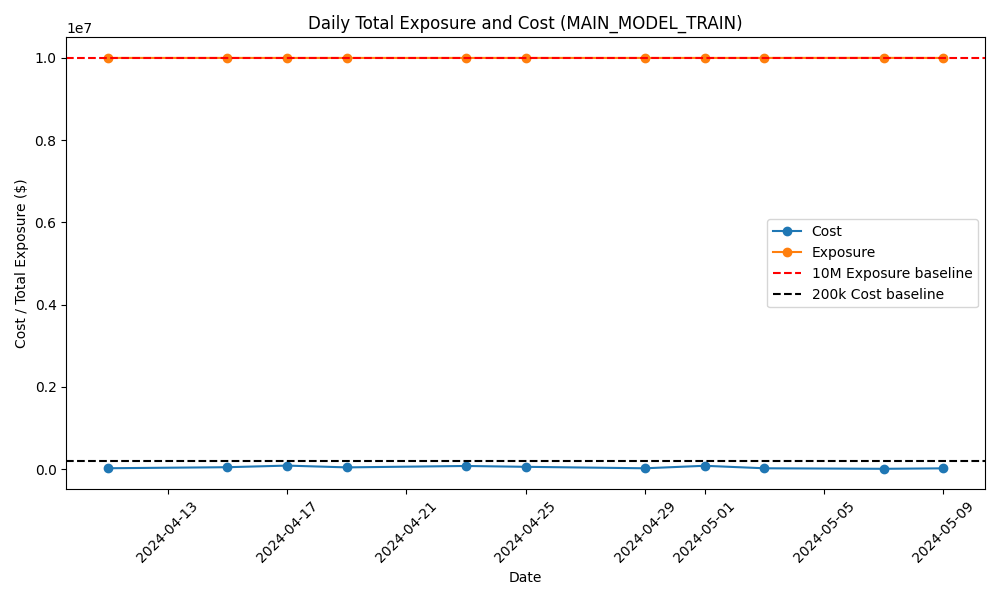
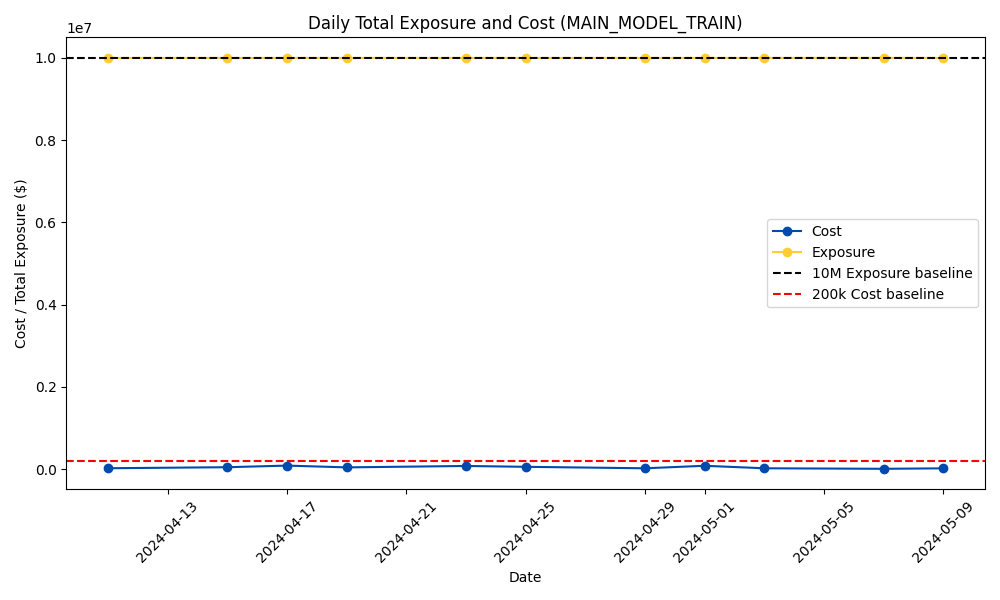
Updated plot coloring slightly

diff --git a/extract_results.py b/extract_results.py
@@ -2,9 +2,9 @@ import pandas as pd
 import numpy as np
 import matplotlib.pyplot as plt
 
-MODEL_NAME = "MAIN_MODEL_TRAIN"
+MODEL_NAME = "MAIN_MODEL_TEST"
 INCLUDE_SELL = False
-MARKET_DATA_PATH = "./data/BADSS training data.csv"
+MARKET_DATA_PATH = "./data/BADSS test data.csv"
 OPTIMIZED_TRADES_PATH = f"./results/{MODEL_NAME}_optimized_trades.csv"
 EXPOSURE_BASELINE = 1e7
 COST_BASELINE = 2e5
@@ -14,10 +14,22 @@ CUMULATIVE_COST_SAVE_PATH = f"./plots/cumulative_cost_over_time_{MODEL_NAME}.png
 
 def plot_daily_cost_and_total_exposure(daily_df):
     fig, ax = plt.subplots(figsize=(10, 6))
-    ax.plot(daily_df["Date"], daily_df["Premium_Cost"], marker='o', label="Cost")
-    ax.plot(daily_df["Date"], daily_df["Exposure"], marker='o', label="Exposure")
-    ax.axhline(y=1e7, color='r', linestyle='--', label="10M Exposure baseline")
-    ax.axhline(y=2e5, color='black', linestyle='--', label="200k Cost baseline")
+    ax.plot(
+        daily_df["Date"],
+        daily_df["Premium_Cost"],
+        marker="o",
+        label="Cost",
+        color="#004AAE",
+    )
+    ax.plot(
+        daily_df["Date"],
+        daily_df["Exposure"],
+        marker="o",
+        label="Exposure",
+        color="#ffcc33",
+    )
+    ax.axhline(y=1e7, color="black", linestyle="--", label="10M Exposure baseline")
+    ax.axhline(y=2e5, color="red", linestyle="--", label="200k Cost baseline")
     ax.set_title(f"Daily Total Exposure and Cost ({MODEL_NAME})")
     ax.set_xlabel("Date")
     ax.set_ylabel("Cost / Total Exposure ($)")
@@ -26,21 +38,26 @@ def plot_daily_cost_and_total_exposure(daily_df):
     plt.tight_layout()
     plt.savefig(COST_EXPOSURE_SAVE_PATH)
 
+
 def plot_cumulative_cost(daily_df):
     cumsum = daily_df["Premium_Cost"].cumsum()
-    
+
     total_end_cost = np.round(cumsum.iloc[-1], 2)
 
     plt.figure(figsize=(10, 6))
-    plt.plot(daily_df["Date"], cumsum, marker='o', label="Cumulative Cost")
+    plt.plot(daily_df["Date"], cumsum, marker="o", label="Cumulative Cost", color="#004AAE")
 
     # Highlight the last point
-    plt.scatter(daily_df["Date"].iloc[-1], cumsum.iloc[-1], color='red', zorder=3)
-    plt.annotate(f"{total_end_cost}",
-                 xy=(daily_df["Date"].iloc[-1], cumsum.iloc[-1]),
-                 xytext=(-30, -30), textcoords='offset points',
-                 arrowprops=dict(arrowstyle="->", lw=1),
-                 fontsize=12, color='red')
+    plt.scatter(daily_df["Date"].iloc[-1], cumsum.iloc[-1], color="red", zorder=3)
+    plt.annotate(
+        f"{total_end_cost}",
+        xy=(daily_df["Date"].iloc[-1], cumsum.iloc[-1]),
+        xytext=(-40, -30),
+        textcoords="offset points",
+        bbox=dict(boxstyle="round,pad=0.3", edgecolor="red", facecolor="white"),
+        fontsize=12,
+        color="red",
+    )
 
     # Chart formatting
     plt.title(f"Cumulative Cost Over Time ({MODEL_NAME})")
@@ -52,15 +69,20 @@ def plot_cumulative_cost(daily_df):
     plt.grid()
     plt.savefig(CUMULATIVE_COST_SAVE_PATH)
 
+
 def create_pnl_df(market_df, optimized_trades_df):
     # Prep for merge
     if not INCLUDE_SELL:
         temp_df = optimized_trades_df[["Date", "Option_ID", "Buy", "Premium_Cost"]]
     else:
-        temp_df = optimized_trades_df[["Date", "Option_ID", "Buy", "Sell", "Premium_Cost"]]
+        temp_df = optimized_trades_df[
+            ["Date", "Option_ID", "Buy", "Sell", "Premium_Cost"]
+        ]
 
     # Merge on Option_ID and Date
-    pnl_df = market_df.merge(temp_df, on=["Option_ID", "Date"], how="left", suffixes=("", "_y"))
+    pnl_df = market_df.merge(
+        temp_df, on=["Option_ID", "Date"], how="left", suffixes=("", "_y")
+    )
 
     # Fill NaN values with 0
     pnl_df.fillna(0, inplace=True)
@@ -77,7 +99,9 @@ def create_pnl_df(market_df, optimized_trades_df):
             next_day = row["Date"] + pd.DateOffset(1)
 
             # Find the next day's bid price for the same Option_ID
-            next_day_row = pnl_df[(pnl_df["Date"] == next_day) & (pnl_df["Option_ID"] == row["Option_ID"])]
+            next_day_row = pnl_df[
+                (pnl_df["Date"] == next_day) & (pnl_df["Option_ID"] == row["Option_ID"])
+            ]
 
             if not next_day_row.empty:
                 # Extract bid price for next day
@@ -90,7 +114,7 @@ def create_pnl_df(market_df, optimized_trades_df):
                 # If next day's price is missing, assume full loss (Premium Cost)
                 pnl = -row["Premium_Cost"]
 
-    # TODO: Consider the case for sell transactions
+        # TODO: Consider the case for sell transactions
         else:
             # If not a buy transaction, set PnL to 0
             pnl = 0
@@ -105,6 +129,7 @@ def create_pnl_df(market_df, optimized_trades_df):
 
     return daily_pnl
 
+
 def plot_cumulative_pnl(pnl_df):
     daily_pnl = pnl_df.copy()
     daily_pnl["Cumulative_PnL"] = daily_pnl["PnL"].cumsum()
@@ -112,17 +137,33 @@ def plot_cumulative_pnl(pnl_df):
     total_pnl = np.round(daily_pnl["Cumulative_PnL"].iloc[-1], 2)
 
     plt.figure(figsize=(10, 6))
-    plt.plot(daily_pnl["Date"], daily_pnl["Cumulative_PnL"], marker='o', label="Cumulative PnL")
-    plt.scatter(daily_pnl["Date"].iloc[-1], total_pnl, color='red', s=100, label="Final PnL", edgecolors='black', zorder=3)
-    plt.annotate(f"{total_pnl}",
-             (daily_pnl["Date"].iloc[-1], total_pnl),
-             textcoords="offset points",
-             xytext=(-20, 30),
-             ha='center',
-             fontsize=12,
-             color='red',
-             bbox=dict(boxstyle="round,pad=0.3", edgecolor="red", facecolor="white"))
-    
+    plt.plot(
+        daily_pnl["Date"],
+        daily_pnl["Cumulative_PnL"],
+        marker="o",
+        label="Cumulative PnL",
+        color="#004AAE",
+    )
+    plt.scatter(
+        daily_pnl["Date"].iloc[-1],
+        total_pnl,
+        color="red",
+        s=100,
+        label="Final PnL",
+        edgecolors="black",
+        zorder=3,
+    )
+    plt.annotate(
+        f"{total_pnl}",
+        (daily_pnl["Date"].iloc[-1], total_pnl),
+        textcoords="offset points",
+        xytext=(-20, 30),
+        ha="center",
+        fontsize=12,
+        color="red",
+        bbox=dict(boxstyle="round,pad=0.3", edgecolor="red", facecolor="white"),
+    )
+
     plt.title(f"Cumulative PnL Over Time ({MODEL_NAME})")
     plt.xlabel("Date", fontsize=12)
     plt.ylabel("Cumulative PnL ($)", fontsize=12)
@@ -136,7 +177,13 @@ def plot_cumulative_pnl(pnl_df):
 
 if __name__ == "__main__":
     market_df = pd.read_csv(MARKET_DATA_PATH)
-    market_df['Option_ID'] = market_df["Symbol"] + "_" + market_df["Maturity"] + "_" + market_df["Strike"].astype(str)
+    market_df["Option_ID"] = (
+        market_df["Symbol"]
+        + "_"
+        + market_df["Maturity"]
+        + "_"
+        + market_df["Strike"].astype(str)
+    )
     market_df["Date"] = pd.to_datetime(market_df["Date"])
 
     # clean up optimized trades
@@ -154,8 +201,10 @@ if __name__ == "__main__":
     plot_daily_cost_and_total_exposure(daily_df=daily_df)
     plot_cumulative_cost(daily_df=daily_df)
 
-    df_with_pnl = create_pnl_df(market_df=market_df, optimized_trades_df=optimized_trades_df)
+    df_with_pnl = create_pnl_df(
+        market_df=market_df, optimized_trades_df=optimized_trades_df
+    )
     # df_with_pnl.to_csv(f"./results/pnl_df_{MODEL_NAME}.csv", index=False)
-    
+
     plot_cumulative_pnl(pnl_df=df_with_pnl)
     print("Results extracted and plots saved successfully!")
